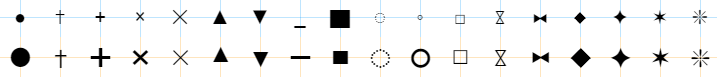
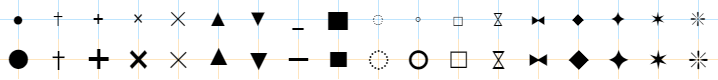
Update

diff --git a/index.html b/index.html
@@ -414,13 +414,25 @@ inputEl.style.width = '4rem';
 inputEl.style.fontSize = '1.5rem';
 inputEl.style.marginBottom = '1rem';
 inputEl.maxlength = 1;
-inputEl.value = '◌';
+inputEl.value = '|';
 inputEl.onchange = e => {
 	let v = inputEl.value[0];
 	inputEl.value = v;
 
 	update(v);
 };
+
+let itemsEl = document.body.appendChild(document.createElement('div'));
+itemsEl.style.position = 'absolute';
+itemsEl.style.top = '2rem';
+itemsEl.style.left = '7rem';
+itemsEl.style.lineHeight = '2rem';
+itemsEl.style.fontSize = '1.5rem';
+let chars = '●✝+×✕▲▼_▇◌◦□⧖⧓◆✦✶❇';
+for (let i = 0; i < chars.length; i++) {
+	let el = itemsEl.appendChild(document.createElement('span'));
+	el.innerHTML = chars[i];
+}
 
 //create canvases
 let w = 300;
@@ -460,7 +472,9 @@ function update(char) {
 	console.log(char + ' properties:', props);
 
 	let { bounds: box, center, radius } = props;
-	let scale = h * .25 / radius;
+	let maxSide = Math.max((box[3] - box[1]) / 2, (box[2] - box[0]) / 2);
+	let maxDist = radius * .5 + maxSide * .5;
+	let scale = h * .25 / maxDist;
 	let diff = [Math.floor(w / 2 - center[0]), h / 2 - center[1]];
 
 	//center of mass cross
@@ -476,21 +490,83 @@ function update(char) {
 	);ctxOut.fillStyle = 'black';
 	ctxOut.fillRect(0, 0, w, h
 
-	//real center cross
-	);ctxOut.fillStyle = 'rgba(0, 150, 250, .25)';
-	ctxOut.fillRect(w / 2, 0, 1, h);
-	ctxOut.fillRect(0, h / 2, w, 1
-
 	//font
 	);ctxOut.fillStyle = 'white';
 	ctxOut.textBaseline = 'middle';
 	ctxOut.textAlign = 'center';
 	ctxOut.font = fs * scale + 'px sans-serif';
-	ctxOut.fillText(char, w / 2 + diff[0] * scale, h / 2 + diff[1] * scale);
+	ctxOut.fillText(char, w / 2 + diff[0] * scale, h / 2 + diff[1] * scale
+
+	//center cross
+	);ctxOut.fillStyle = 'rgba(0, 150, 250, .25)';
+	ctxOut.fillRect(w / 2, 0, 1, h);
+	ctxOut.fillRect(0, h / 2, w, 1
+
+	//circumference
+	);ctxIn.strokeStyle = 'rgba(250, 250, 0, .5)';
+	ctxIn.beginPath();
+	ctxIn.arc(center[0], center[1], radius, 0, 2 * Math.PI);
+	ctxIn.closePath();
+	ctxIn.stroke();
+
+	//circumference
+	ctxOut.strokeStyle = 'rgba(0, 150, 250, .33)';
+	ctxOut.beginPath();
+	ctxOut.arc(w / 2, h / 2, w / 4, 0, 2 * Math.PI);
+	ctxOut.closePath();
+	ctxOut.stroke();
+}
+
+// drawHTML('●✝+×✕▲▼_▇◌◦□⧖⧓◆✦✶❇')
+drawCanvas('●✝+×✕▲▼_▇◌◦□⧖⧓◆✦✶❇'
+
+//draw set of letters
+);function drawHTML(chars) {
+	let topEl = document.body.appendChild(document.createElement('div'));
+	topEl.style.marginTop = '1rem';
+	topEl.style.marginRight = '1rem';
+	topEl.style.position = 'relative';
+	topEl.style.minWidth = w + 'px';
+	topEl.style.lineHeight = '2rem';
+
+	let step = 100;
+	let fs = 50;
+	let fontRatio = 4.5;
+
+	for (let i = 0; i < chars.length; i++) {
+		let char = chars[i];
+		let el = topEl.appendChild(document.createElement('span'));
+		el.innerHTML = char;
+		el.style.fontSize = '2rem';
+	}
+
+	let bottomEl = document.body.appendChild(document.createElement('div'));
+	bottomEl.style.position = 'relative';
+	bottomEl.style.minWidth = w + 'px';
+	bottomEl.style.lineHeight = '2rem';
+	bottomEl.style.marginTop = '1rem';
+
+	for (let i = 0; i < chars.length; i++) {
+		let char = chars[i];
+
+		let el = bottomEl.appendChild(document.createElement('span'));
+		el.innerHTML = char;
+
+		let { center, bounds, radius } = optics(chars[i], { size: step, fontSize: fs });
+		center[0] /= step, center[1] /= step, radius /= step, bounds[3] /= step, bounds[1] /= step;
+		let scale = .25 / radius;
+		let diff = .5 - center[1];
+
+		el.style.fontSize = 2 * scale + 'rem';
+		el.style.position = 'relative';
+		el.style.display = 'inline-block';
+		el.style.verticalAlign = 'middle';
+		el.style.top = fontRatio * diff * scale + 'rem';
+	}
 }
 
 //draw set of letters
-(function () {
+function drawCanvas(chars) {
 	let canvas = document.body.appendChild(document.createElement('canvas'));
 	canvas.width = 720;
 	canvas.height = 200;
@@ -499,7 +575,6 @@ function update(char) {
 
 	let w = canvas.width,
 	    h = canvas.height;
-	let chars = '●✝+×✕▲▼_▇◌◦□⧖⧓◆✦✶❇';
 	let step = 40;
 	let fs = 20;
 
@@ -521,8 +596,11 @@ function update(char) {
 		ctx.fillText(chars[i], i * step + step / 2, step / 2);
 
 		let { center, bounds, radius } = optics(chars[i], { size: step * 10, fontSize: fs * 10 });
-		center[0] /= 10, center[1] /= 10, radius /= 10, bounds[3] /= 10, bounds[1] /= 10;
-		let scale = step * .25 / radius;
+		center[0] /= 10, center[1] /= 10, radius /= 10, bounds[3] /= 10, bounds[1] /= 10, bounds[0] /= 10, bounds[2] /= 10;
+
+		// let maxDist = radius*.5 + Math.max( bounds[3]-bounds[1] , bounds[2]-bounds[0] )*.5
+		let maxDist = radius * .5 + Math.max((bounds[3] - bounds[1]) * .5, (bounds[2] - bounds[0]) * .5) * .5;
+		let scale = step * .25 / maxDist;
 		let diff = [Math.floor(step / 2 - center[0]), step / 2 - center[1]];
 		let off = .5 * (bounds[3] + bounds[1]) - h * .5;
 
@@ -534,7 +612,7 @@ function update(char) {
 		ctx.font = fs * scale + 'px sans-serif';
 		ctx.fillText(chars[i], i * step + step / 2 + diff[0] * scale + .5, step + step / 2 + diff[1] * scale + .5);
 	}
-})();
+}
 
 },{"./":1,"enable-mobile":3}]},{},[7]);
 </script>
